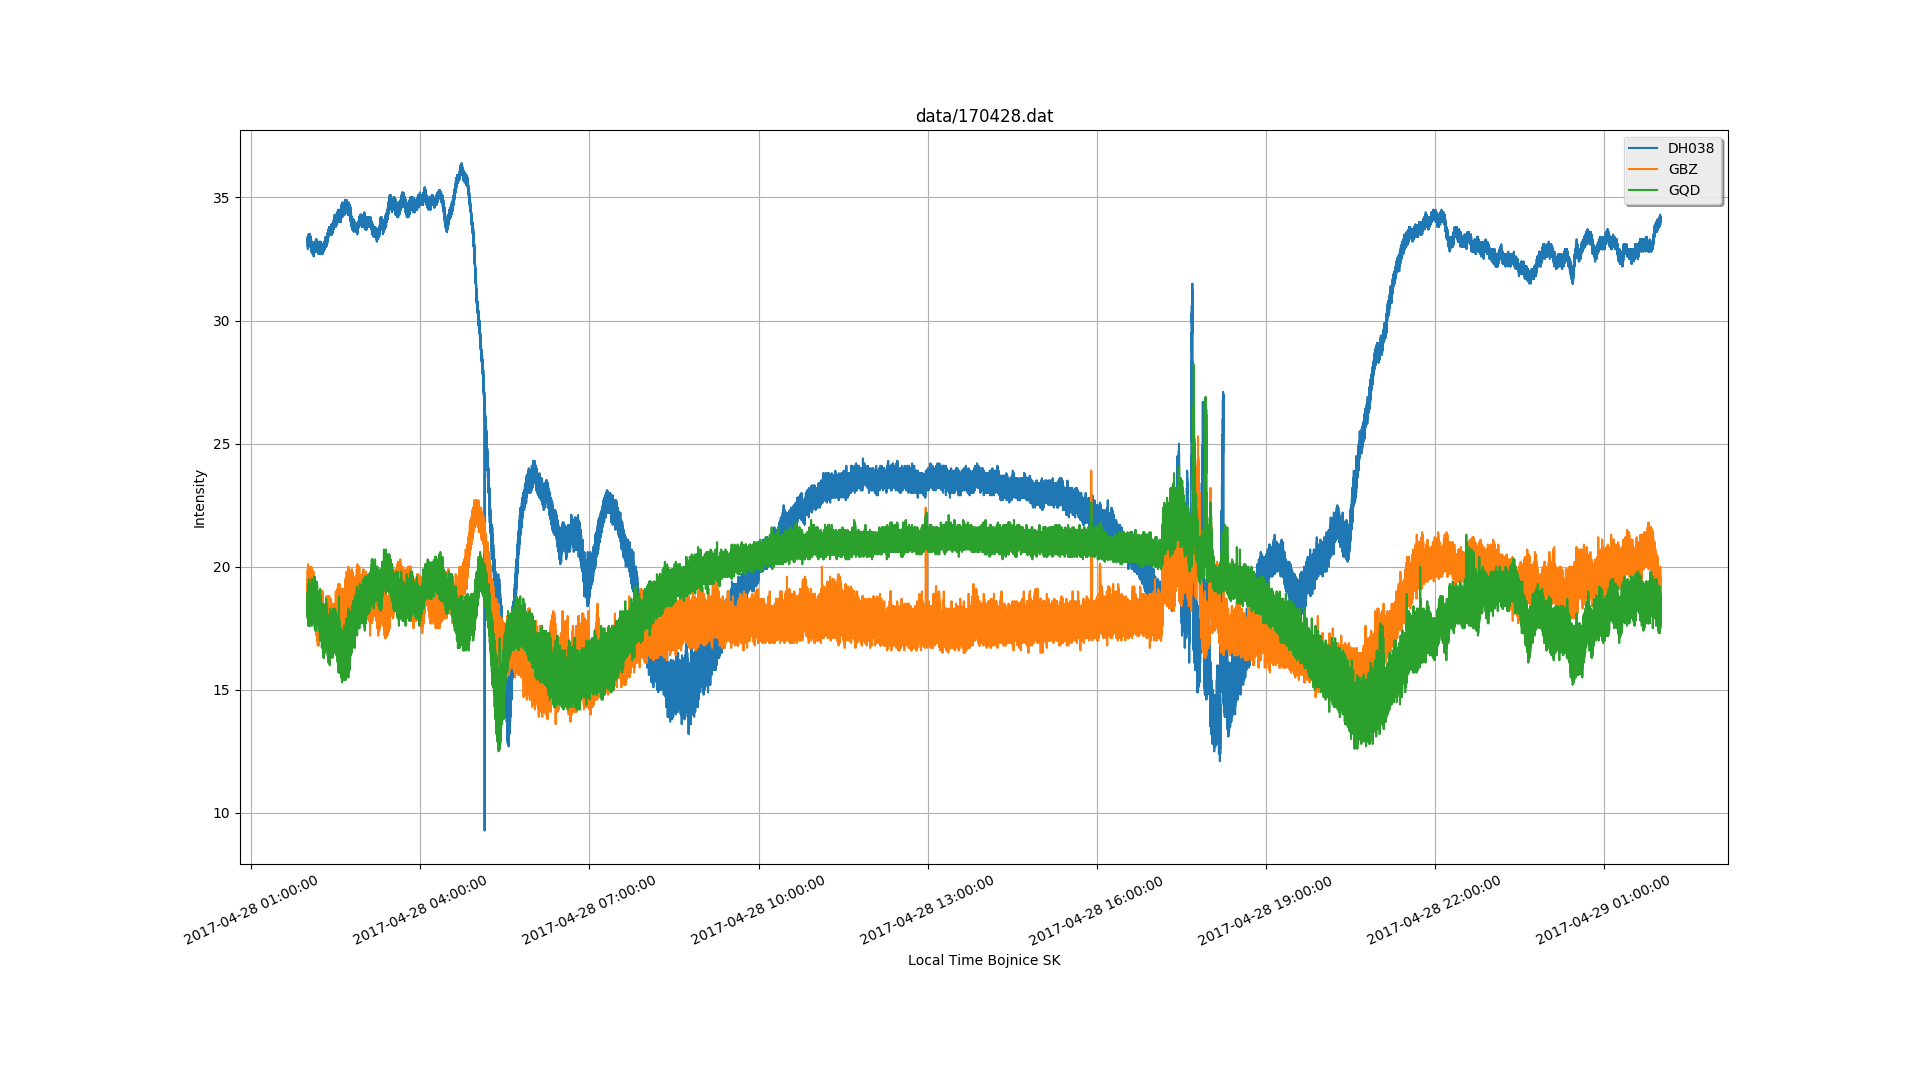
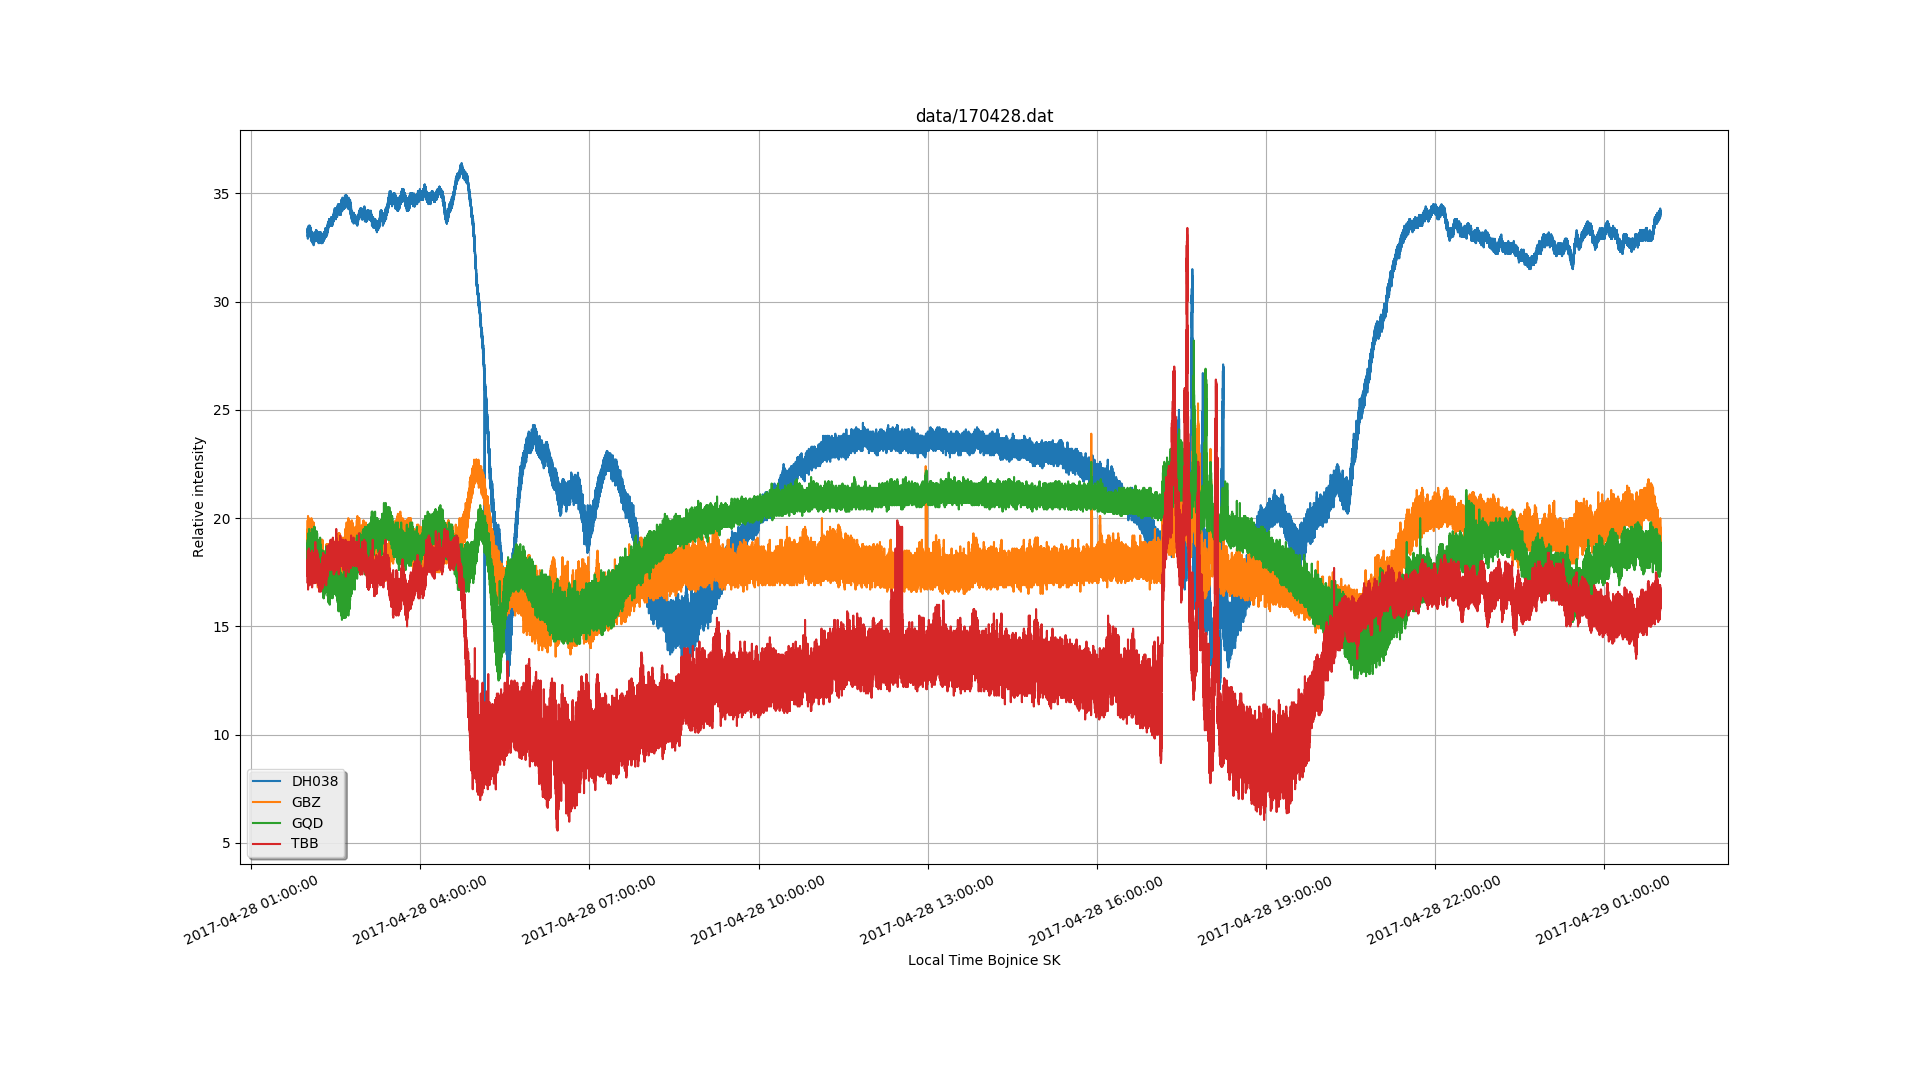
Adding TBB to all plots

diff --git a/parser.py b/parser.py
@@ -25,6 +25,7 @@ time=[]
 GBZ=[]
 GQD=[]
 DHO38=[]
+TBB = []
 
 #f1=open('X', 'w+')
 for i in range (1,len(data)):
@@ -34,7 +35,7 @@ for i in range (1,len(data)):
    GBZ.append(float(data[i][5]))
    GQD.append(float(data[i][8]))
    DHO38.append(float(data[i][10]))
-
+   TBB.append(float(data[i][12]))
 dates=[dt.datetime.fromtimestamp(ts) for ts in stamp]
 
 plt.figure(figsize=(19.2, 10.8), dpi=100)
@@ -47,6 +48,7 @@ ax.set_title(sys.argv[1])
 plt.plot(dates,DHO38,label="DH038")
 plt.plot(dates,GBZ,label="GBZ")
 plt.plot(dates,GQD,label="GQD")
+plt.plot(dates,TBB,label="TBB")
 plt.grid()
 ax.set_xlabel("Local Time Bojnice SK")
 ax.set_ylabel("Relative intensity")
